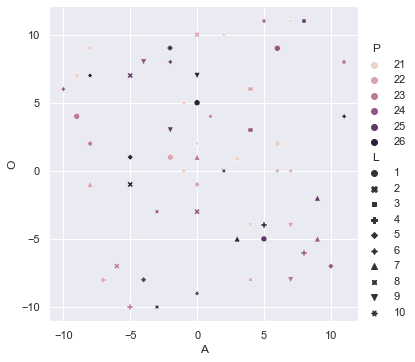
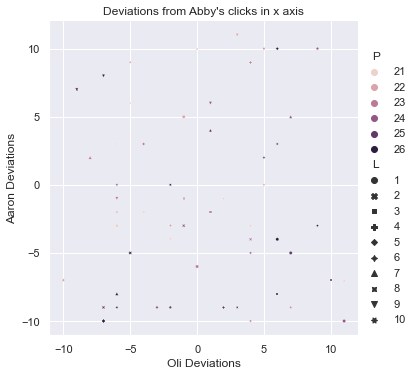
add x labels

diff --git a/compare/test_plot.py b/compare/test_plot.py
@@ -64,10 +64,11 @@ for i in struc_list:
 #print(d_x)
 df_x = pd.DataFrame(d_x, columns=('P','A', 'O', 'L'))
 print(df_x)
-df_y = pd.DataFrame(d_y, columns=('P','A', 'O', 'L'))
-print(df_y)
-df_z = pd.DataFrame(d_z, columns=('P','A', 'O', 'L'))
-print(df_z)
+print(df_x.shape)
+#df_y = pd.DataFrame(d_y, columns=('P','A', 'O', 'L'))
+#print(df_y)
+#df_z = pd.DataFrame(d_z, columns=('P','A', 'O', 'L'))
+#print(df_z)
 '''
 df = pd.DataFrame(data=d_x, index=('A', 'O', 'L'))
 print(df)
@@ -82,14 +83,18 @@ tips = sns.load_dataset("tips")
 #print(df_2)
 
 '''
-sns_plot = sns.relplot(x = 'A', y = 'O', hue= 'P', style = 'L', data=df_x)
-sns_plot.savefig('bias_output_x.png')
+sns_plot = sns.relplot(x = 'A', y = 'O', hue= 'P', style = 'L', data=df_x, s=75)
+plt.xlabel('Oli Deviations')
+plt.ylabel('Aaron Deviations')
+plt.title("Deviations from Abby's clicks in x axis")
+plt.savefig('bias_output_x.png', bbox_inches='tight', dpi=300)
 
-sns_plot_y = sns.relplot(x = 'A', y = 'O', hue= 'P', style = 'L', data=df_y)
-sns_plot.savefig('bias_output_y.png')
 
-sns_plot_z = sns.relplot(x = 'A', y = 'O', hue= 'P', style = 'L', data=df_z)
-sns_plot.savefig('bias_output_z.png')
+#sns_plot_y = sns.relplot(x = 'A', y = 'O', hue= 'P', style = 'L', data=df_y)
+#sns_plot.savefig('bias_output_y.png')
+
+#sns_plot_z = sns.relplot(x = 'A', y = 'O', hue= 'P', style = 'L', data=df_z)
+#sns_plot.savefig('bias_output_z.png')
 
 
   

diff --git a/compare/bias_clicks.py b/compare/bias_clicks.py
@@ -237,7 +237,7 @@ print(df_z)
 
 # plot
 print(os.getcwd())
-sns_plot_x = sns.relplot(x = 'Oli', y = 'Aaron', hue = 'Patient', style = 'Landmark', data=df_x)
+sns_plot_x = sns.relplot(x = 'Oli', y = 'Aaron', hue = 'Patient', style = 'Landmark', data=df_x, s=10)
 #sns_plot_x.set_size_inches(18.5, 10.5)
 plt.xlabel('Oli Deviations')
 plt.ylabel('Aaron Deviations')
